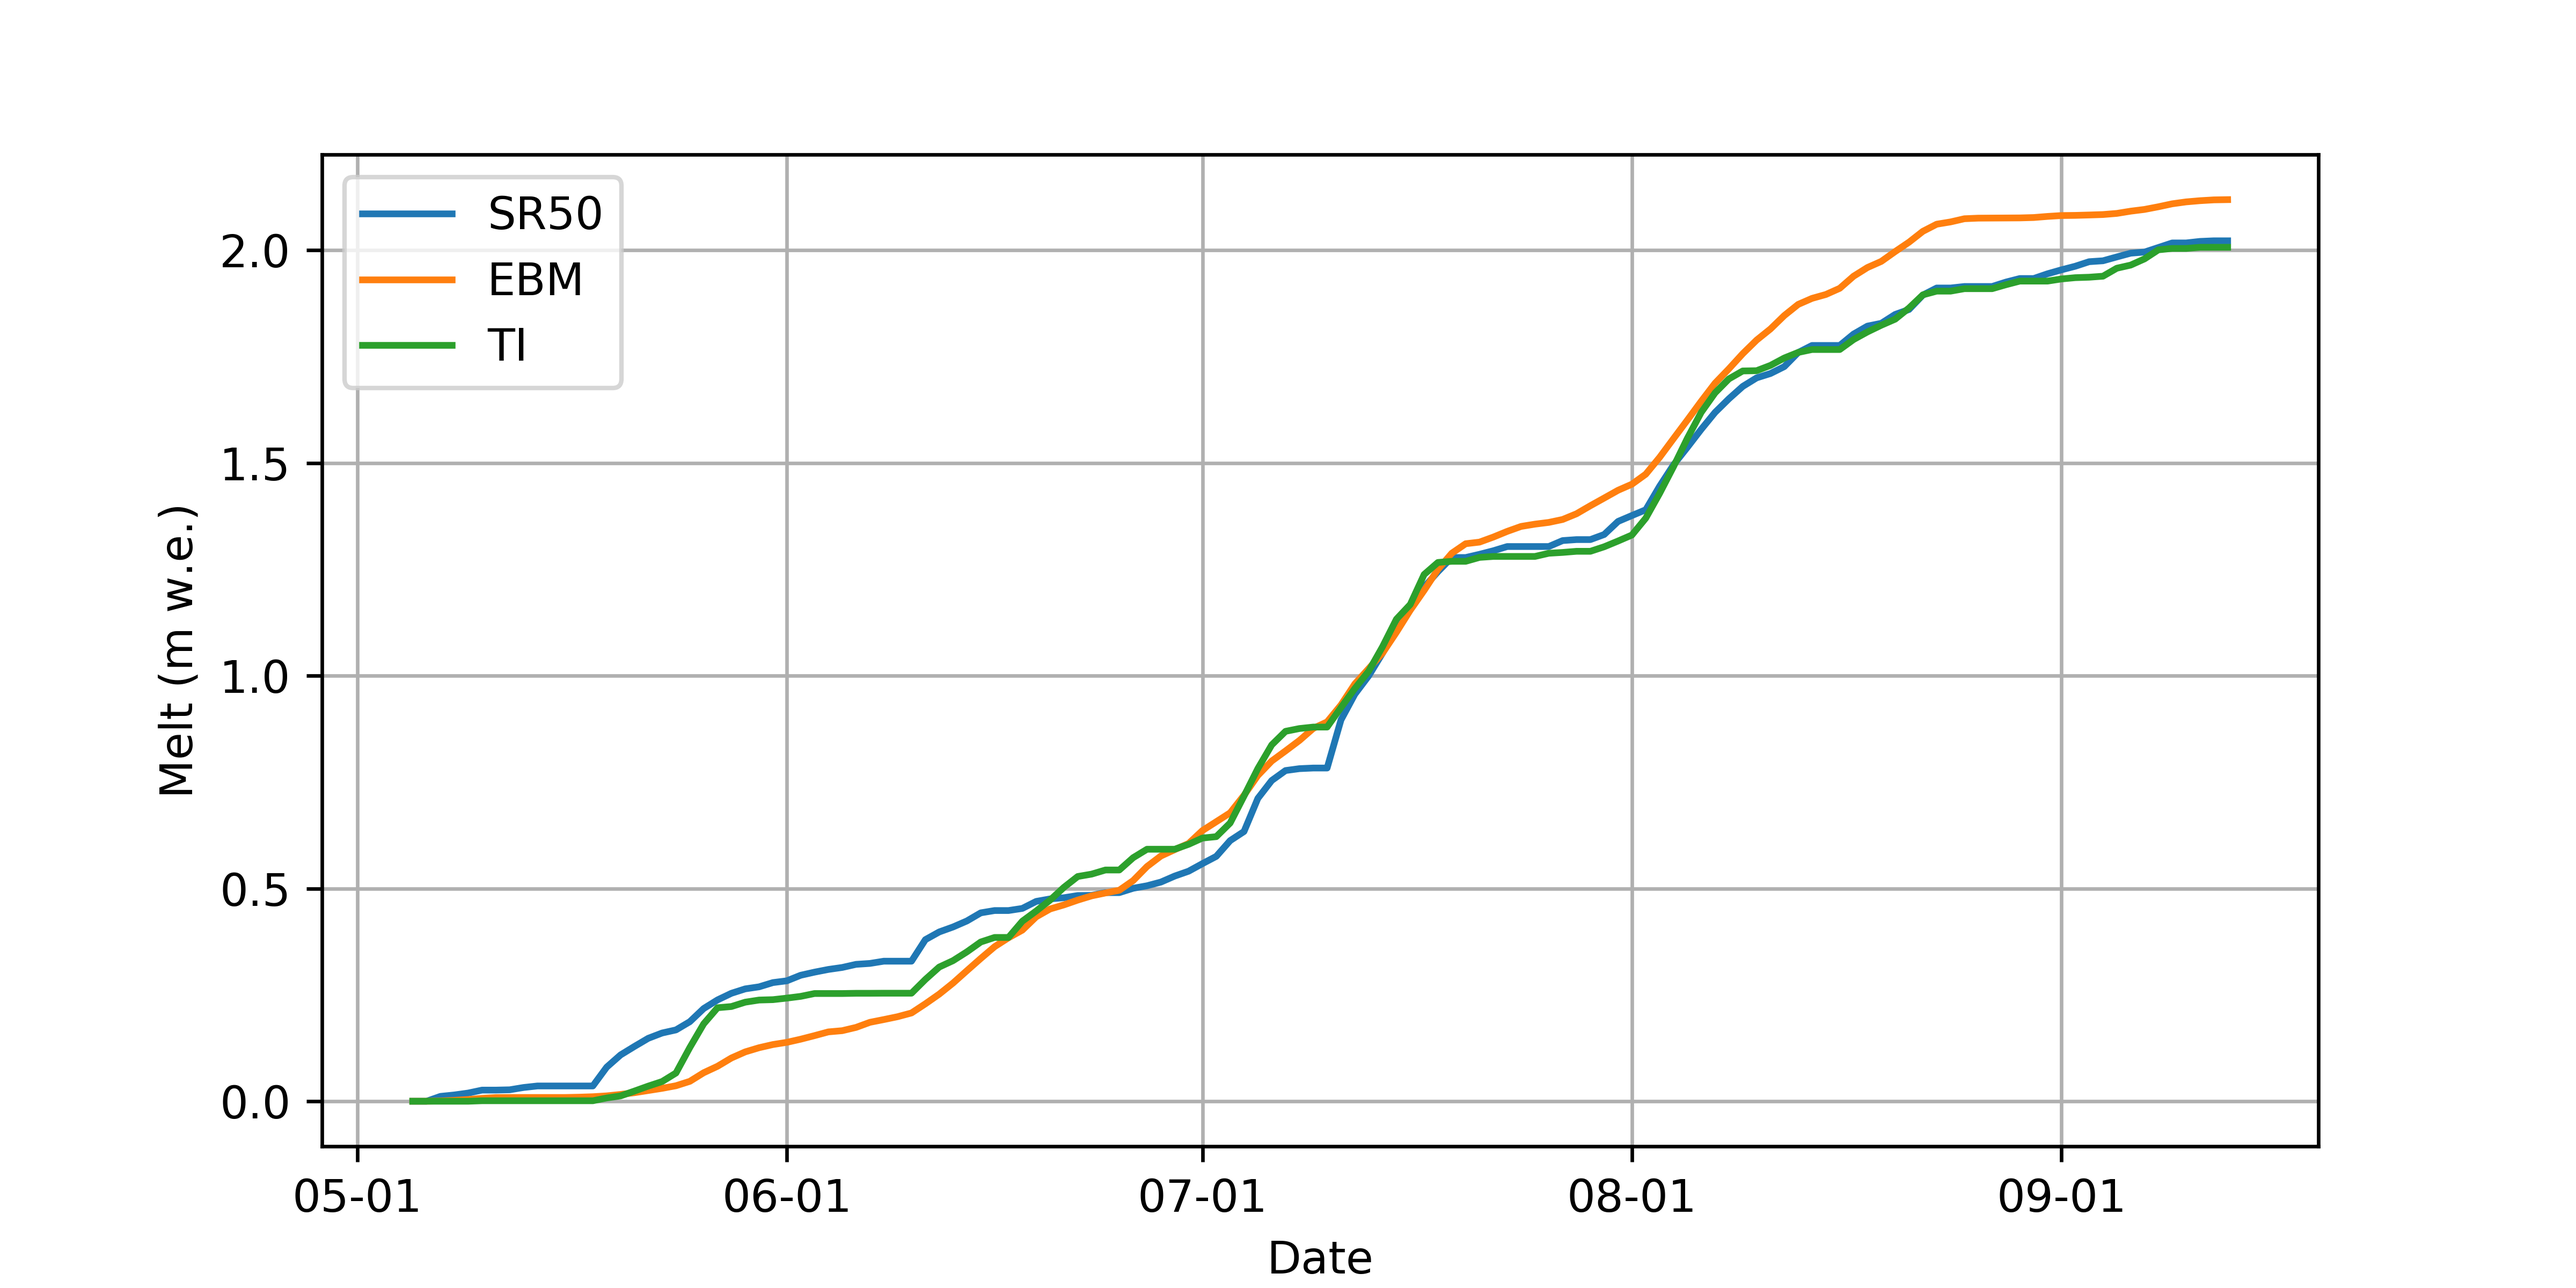
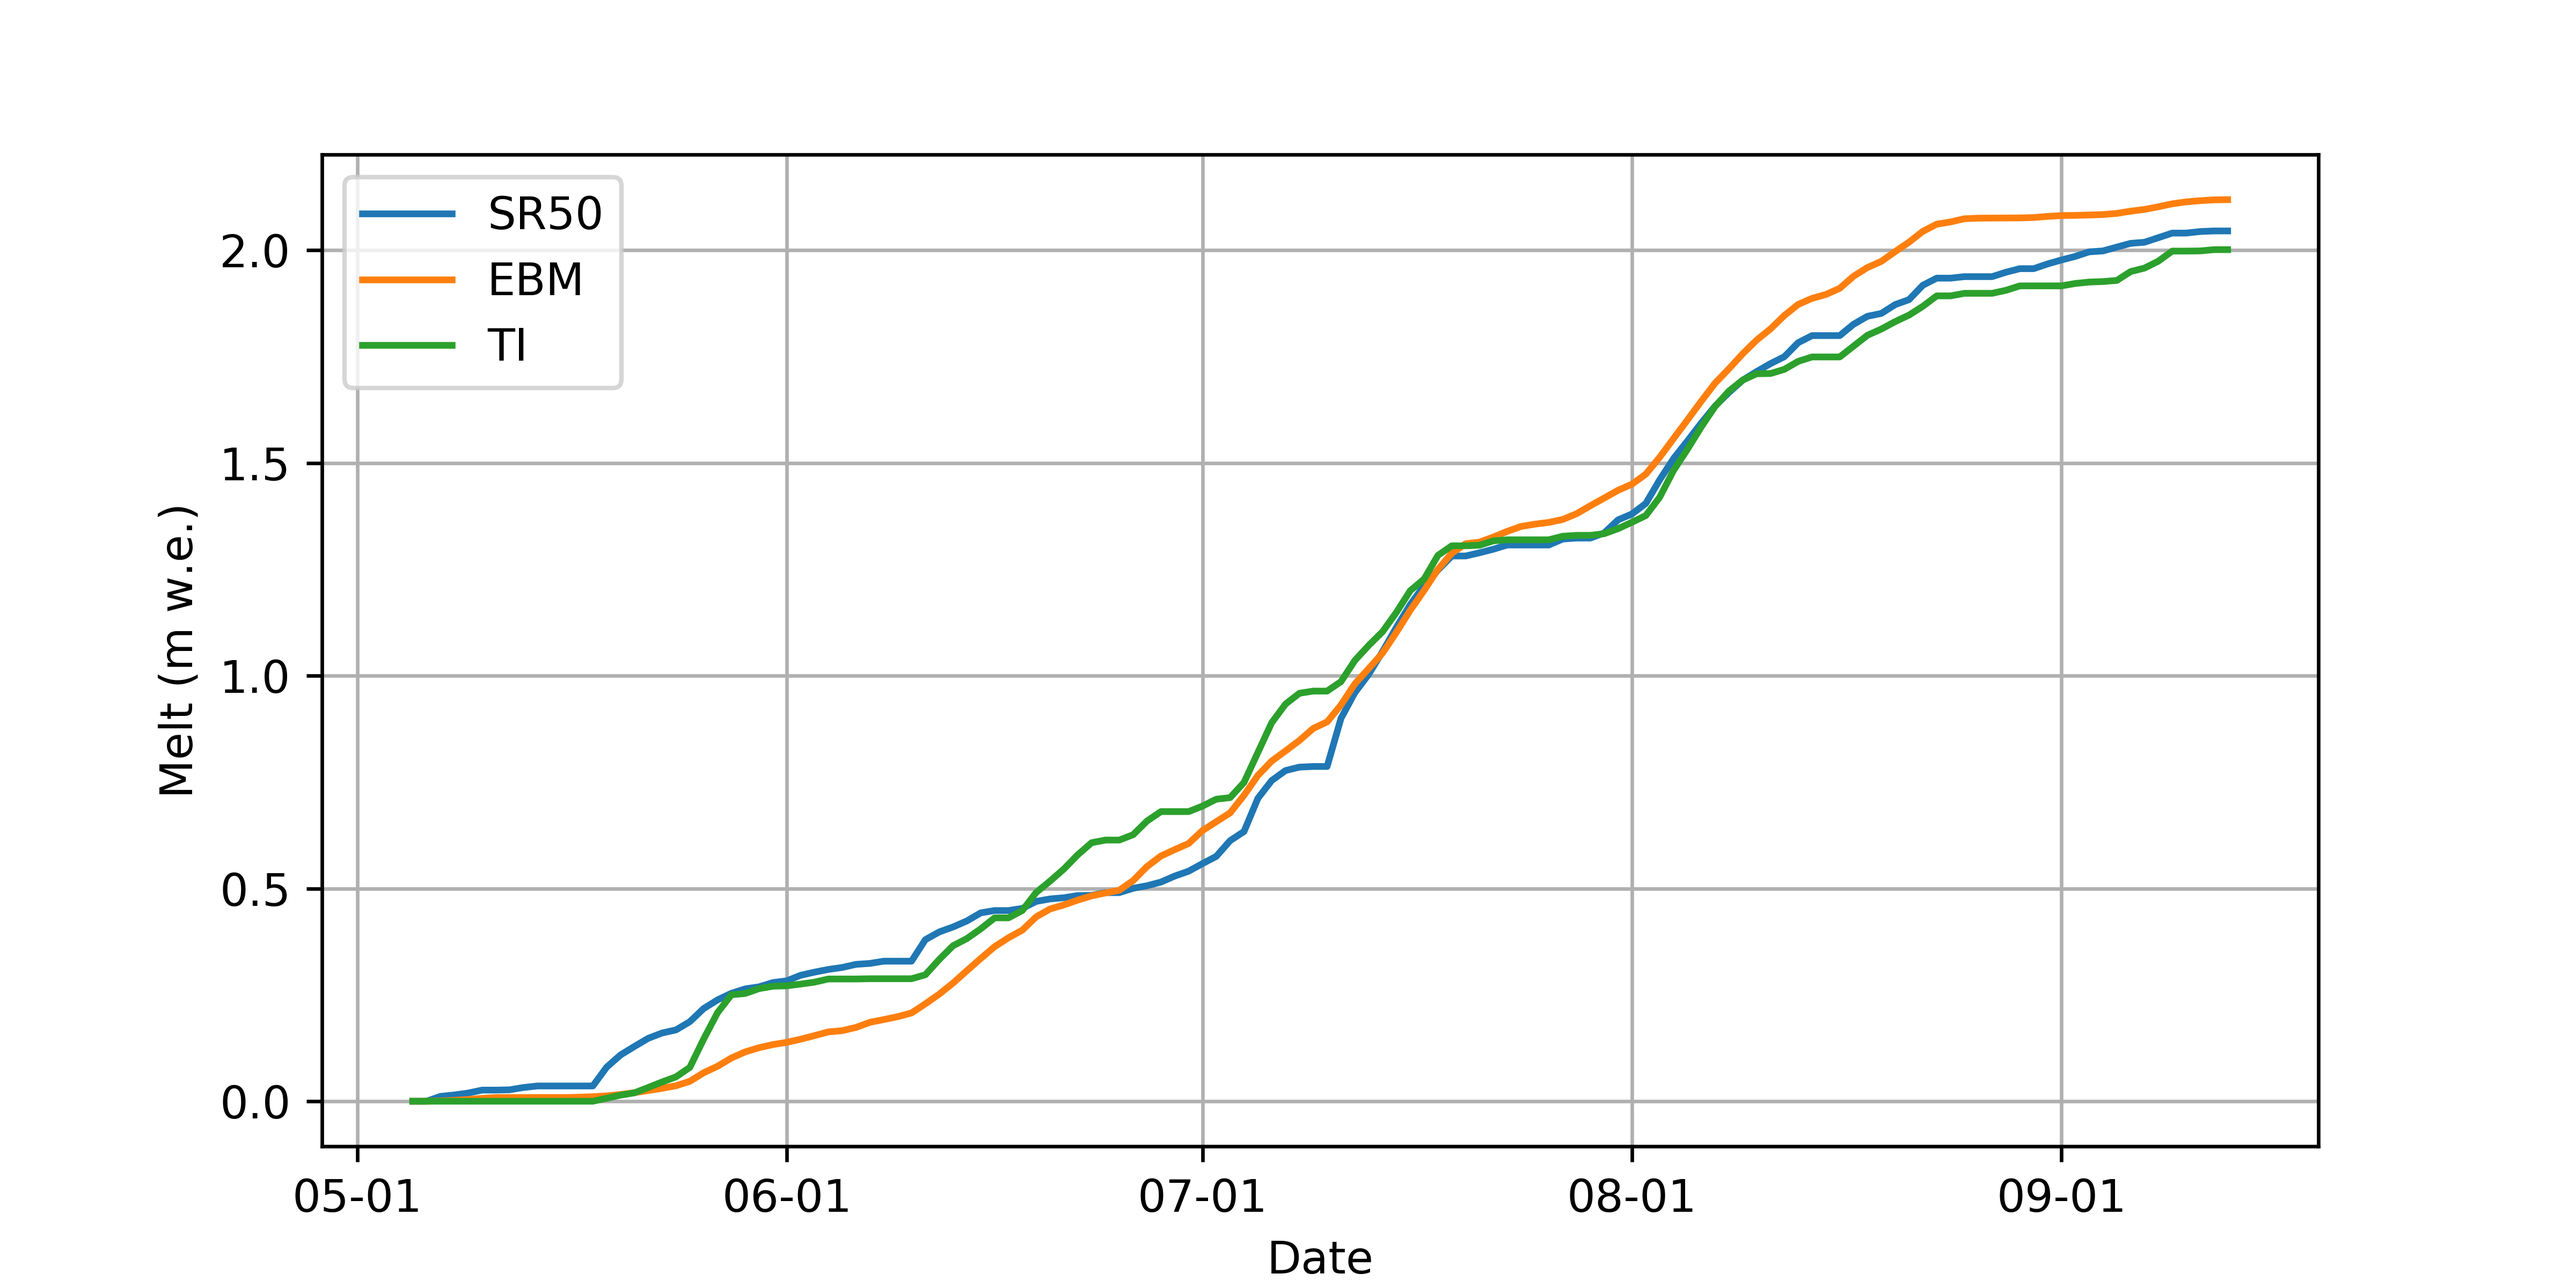
Clean

diff --git a/Assignment01/drive_ti.py b/Assignment01/drive_ti.py
@@ -1,6 +1,6 @@
 #!/usr/bin/python3
 """
-Calibrate and run temperature-index melt model
+Calcualte SR 50 melt; calibrate and run temperature-index melt model
 """
 
 import datetime
